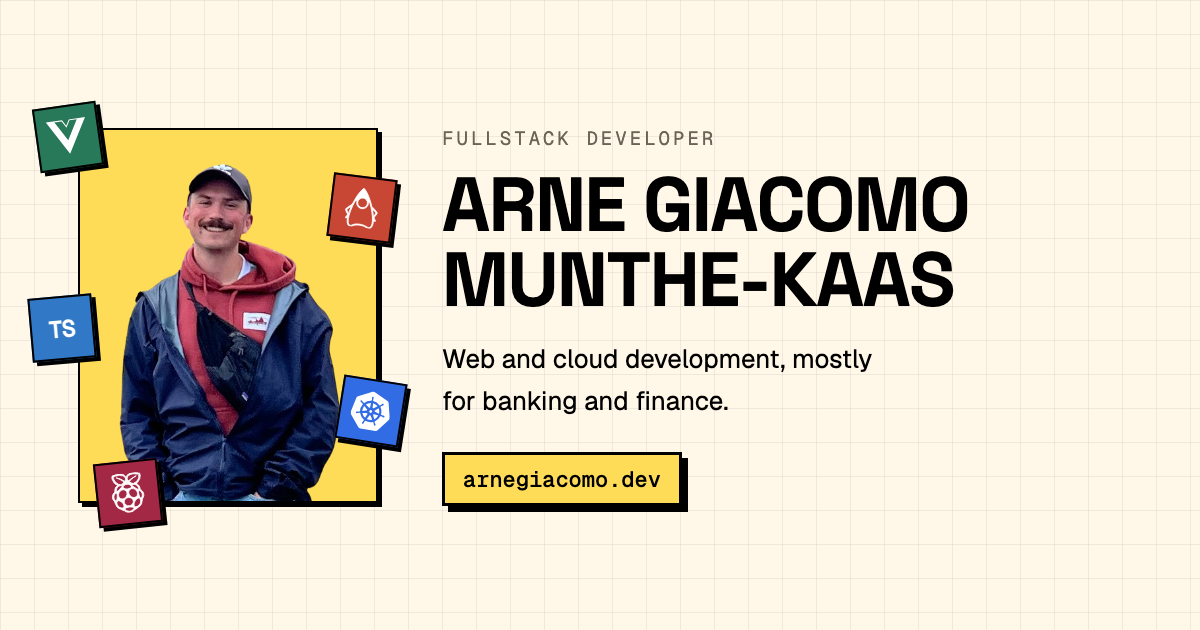
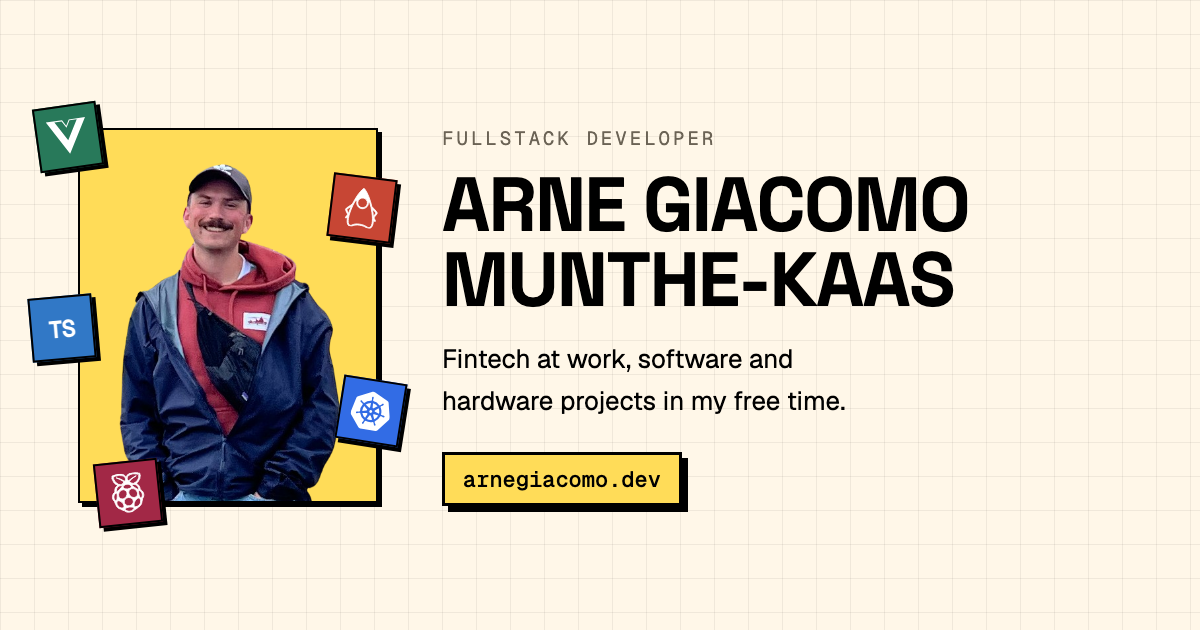
feat: rewrite site copy and restyle project cards

Changed region(s): [[0.37, 0.5429, 0.74, 0.6635]]

diff --git a/js/i18n.js b/js/i18n.js
@@ -1,67 +1,61 @@
 const TRANSLATIONS = {
   en: {
     'a11y.theme': 'Toggle dark mode',
-    'hero.eyebrow': 'Fullstack developer',
-    'hero.lead': 'Fullstack web and cloud development, mostly for banking and finance.',
+    'hero.lead': 'Fullstack developer in Bergen. Fintech at work, software and hardware projects in my free time.',
     'hero.badge1': 'Bergen, Norway',
-    'hero.badge2': 'Stacc',
-    'hero.badge3': 'Since 2023',
+    'hero.badge2': 'Stacc since 2023',
     'about.title': 'About',
-    'about.p1': 'Bergen-based fullstack developer at Stacc, working across backend, frontend, infrastructure and DevOps.',
-    'about.p2': 'Outside work: bass guitar, Lego, climbing, birding and hiking. Also small, physical projects - Raspberry Pis, e-ink displays, microcontrollers - and some dabbling with AI.',
+    'about.p1': 'I work at Stacc, a Nordic fintech company. Web development where the hard part is rarely the tech; it\'s the domain and the organisation around it.',
+    'about.p2': 'Outside work: Lego and bass guitar. I love being in nature - birding, climbing, hiking - and the garden is full of feeders and the birds they bring. I also build physical projects with Raspberry Pis, displays, microcontrollers and sensors.',
     'nf.title': '404',
     'nf.body': 'That page does not exist.',
     'nf.home': 'Back to the front page',
     'stack.title': 'Stack',
-    'projects.title': 'Projects',
+    'projects.title': 'Side projects',
     'projects.open': 'Open source',
     'projects.closed': 'Closed source',
-    'projects.fugleramme': 'E-ink bird frame for Raspberry Pi. Identifies birds by their song in real time and draws the recent visitors as a collage of public-domain illustrations.',
-    'projects.tablesummit': 'Multiplayer football prediction game. Predict the final table in a private or global league, scored live against real results.',
+    'projects.fugleramme': 'E-ink frame showing which birds have been in the garden. BirdNET-Go handles detection on a Raspberry Pi with a USB mic; fugleramme draws the results as public-domain illustrations. Full setup guide in the docs if you want to build your own.',
+    'projects.tablesummit': 'Predict how a football league finishes, then watch your score move as results come in. Compete with friends, family or strangers, in private leagues or globally. Live with the World Cup, Champions League, Premier League and more. Free to join.',
     'links.title': 'Get in touch',
     'links.email': 'Email'
   },
   no: {
-    'a11y.theme': 'Bytt mørk modus',
-    'hero.eyebrow': 'Fullstack-utvikler',
-    'hero.lead': 'Fullstack web- og systemutvikling for sky, hovedsakelig i bank- og finanssektoren.',
+    'a11y.theme': 'Veksle mørk modus',
+    'hero.lead': 'Fullstack-utvikler i Bergen. Fintech på jobb, software- og hardwareprosjekter på fritiden.',
     'hero.badge1': 'Bergen, Norge',
-    'hero.badge2': 'Stacc',
-    'hero.badge3': 'Siden 2023',
+    'hero.badge2': 'Stacc siden 2023',
     'about.title': 'Om meg',
-    'about.p1': 'Bergensbasert fullstack-utvikler hos Stacc, med erfaring på tvers av backend, frontend, infrastruktur og DevOps.',
-    'about.p2': 'Utenom jobb: bassgitar, Lego, klatring, fuglekikking og friluftsliv. I tillegg små, fysiske prosjekter - Raspberry Pi, e-ink-skjermer, mikrokontrollere - og litt eksperimentering med AI.',
+    'about.p1': 'Jeg jobber i Stacc, et nordisk fintech-selskap. Webutvikling der det vanskeligste sjelden er teknologien, men domenet og organisasjonen rundt.',
+    'about.p2': 'Utenom jobb: Lego og bassgitar. Jeg elsker å være ute i naturen - fuglekikking, klatring, turgåing - og hagen er full av matere og fuglene de trekker til seg. Jeg bygger også fysiske prosjekter med Raspberry Pi, skjermer, mikrokontrollere og sensorer.',
     'nf.title': '404',
     'nf.body': 'Denne siden finnes ikke.',
     'nf.home': 'Tilbake til forsiden',
     'stack.title': 'Teknologi',
-    'projects.title': 'Prosjekter',
+    'projects.title': 'Sideprosjekter',
     'projects.open': 'Åpen kildekode',
     'projects.closed': 'Lukket kildekode',
-    'projects.fugleramme': 'E-ink fugleramme for Raspberry Pi. Kjenner igjen fugler fra lyd i sanntid og tegner de siste besøkende som en collage av historiske illustrasjoner.',
-    'projects.tablesummit': 'Flerspillerspill der du tipper fotballtabeller. Tipp sluttabellen i en privat eller global liga, med poeng mot ekte resultater.',
+    'projects.fugleramme': 'E-ink-ramme som viser hvilke fugler som har vært i hagen. BirdNET-Go står for gjenkjenningen på en Raspberry Pi med USB-mikrofon; fuglerammen tegner resultatene som public domain-illustrasjoner. Full oppsettsguide i dokumentasjonen hvis du vil bygge din egen.',
+    'projects.tablesummit': 'Tipp hvordan en fotballiga ender, og se poengsummen bevege seg etter hvert som resultatene kommer inn. Konkurrer med venner, familie eller fremmede, i private ligaer eller globalt. Live med VM, CL, PL og mer. Gratis å bli med.',
     'links.title': 'Ta kontakt',
     'links.email': 'E-post'
   },
   it: {
-    'a11y.theme': 'Attiva modalità scura',
-    'hero.eyebrow': 'Sviluppatore fullstack',
-    'hero.lead': 'Sviluppo fullstack web e cloud, principalmente per il settore bancario e finanziario.',
+    'a11y.theme': 'Attiva/disattiva modalità scura',
+    'hero.lead': 'Sviluppatore fullstack a Bergen. Fintech al lavoro, progetti software e hardware nel tempo libero.',
     'hero.badge1': 'Bergen, Norvegia',
-    'hero.badge2': 'Stacc',
-    'hero.badge3': 'Dal 2023',
+    'hero.badge2': 'Stacc dal 2023',
     'about.title': 'Chi sono',
-    'about.p1': 'Sviluppatore fullstack con base a Bergen, in Stacc, dove lavoro su backend, frontend, infrastruttura e DevOps.',
-    'about.p2': 'Fuori dal lavoro: basso elettrico, Lego, arrampicata, birdwatching ed escursionismo. E poi progetti piccoli e fisici - Raspberry Pi, display e-ink, microcontrollori - e qualche esperimento con l\'AI.',
+    'about.p1': 'Lavoro in Stacc, una fintech nordica. Sviluppo web dove la parte difficile raramente è la tecnologia, ma il dominio e l\'organizzazione intorno.',
+    'about.p2': 'Fuori dal lavoro: Lego e basso elettrico. Adoro stare nella natura - birdwatching, arrampicata, escursionismo - e il giardino è pieno di mangiatoie e di uccelli. Costruisco anche progetti fisici con Raspberry Pi, display, microcontrollori e sensori.',
     'nf.title': '404',
     'nf.body': 'Questa pagina non esiste.',
     'nf.home': 'Torna alla pagina principale',
     'stack.title': 'Tecnologie',
-    'projects.title': 'Progetti',
+    'projects.title': 'Progetti personali',
     'projects.open': 'Codice aperto',
     'projects.closed': 'Codice chiuso',
-    'projects.fugleramme': 'Cornice e-ink per uccelli su Raspberry Pi. Riconosce gli uccelli dal canto in tempo reale e disegna i visitatori recenti come collage di illustrazioni storiche.',
-    'projects.tablesummit': 'Gioco multiplayer di pronostici calcistici. Pronostica la classifica finale in una lega privata o globale, con punteggi sui risultati reali.',
+    'projects.fugleramme': 'Cornice e-ink che mostra quali uccelli sono passati in giardino. BirdNET-Go si occupa del riconoscimento su un Raspberry Pi con microfono USB; fugleramme disegna i risultati come illustrazioni di pubblico dominio. Guida completa al montaggio nella documentazione, se vuoi costruirne una.',
+    'projects.tablesummit': 'Pronostica come finirà un campionato di calcio e guarda il tuo punteggio muoversi mano a mano che arrivano i risultati. Sfida amici, familiari o sconosciuti, in leghe private o a livello globale. Online con Mondiali, CL, PL e altro. L\'iscrizione è gratuita.',
     'links.title': 'Contattami',
     'links.email': 'Email'
   }

diff --git a/index.html b/index.html
@@ -5,15 +5,16 @@
 <meta name="viewport" content="width=device-width, initial-scale=1">
 <meta name="color-scheme" content="light dark">
 <title>Arne Giacomo Munthe-Kaas</title>
-<meta name="description" content="Bergen-based fullstack developer working on web and cloud systems, mostly in banking and finance.">
+<meta name="description" content="Fullstack developer in Bergen. Fintech at work, software and hardware projects in my free time.">
 <meta property="og:title" content="Arne Giacomo Munthe-Kaas">
-<meta property="og:description" content="Bergen-based fullstack developer working on web and cloud systems, mostly in banking and finance.">
+<meta property="og:description" content="Fullstack developer in Bergen. Fintech at work, software and hardware projects in my free time.">
 <meta property="og:type" content="website">
 <meta property="og:url" content="https://arnegiacomo.dev/">
 <!-- og.png is a screenshot of a throwaway page built from css/style.css, not a
      build artefact. It does not follow changes to the name, tagline or palette
-     on its own - rerun `python3 gen-images.py` after editing any of them. -->
-<meta property="og:image" content="https://arnegiacomo.dev/assets/og.png">
+     on its own - rerun `python3 gen-images.py` after editing any of them.
+     Scrapers cache by image URL, so bump ?v= whenever the card changes. -->
+<meta property="og:image" content="https://arnegiacomo.dev/assets/og.png?v=2">
 <meta property="og:image:width" content="1200">
 <meta property="og:image:height" content="630">
 <meta property="og:image:alt" content="Arne Giacomo Munthe-Kaas - fullstack developer, Bergen">
@@ -84,13 +85,11 @@
       <span class="chip block b-rpi   p5" role="img" aria-label="Raspberry Pi"><svg><use href="#i-rpi"/></svg></span>
     </div>
     <div class="hero-text">
-      <p class="eyebrow" data-i18n="hero.eyebrow"></p>
       <h1>Arne Giacomo<br>Munthe-Kaas</h1>
       <p class="lead" data-i18n="hero.lead"></p>
       <ul class="badges">
         <li class="block" data-i18n="hero.badge1"></li>
         <li class="block"><a href="https://www.stacc.com" data-i18n="hero.badge2"></a></li>
-        <li class="block" data-i18n="hero.badge3"></li>
       </ul>
     </div>
   </header>
@@ -105,10 +104,13 @@
 
   <section>
     <h2 data-i18n="stack.title"></h2>
+    <!-- Grouped languages, frameworks, data, infra, observability - reading order
+         carries the grouping, so keep new entries with their own kind. -->
     <ul class="tags">
-      <li class="block">Java</li><li class="block">Quarkus</li><li class="block">TypeScript</li>
-      <li class="block">Vue</li><li class="block">Python</li><li class="block">PostgreSQL</li>
-      <li class="block">Kubernetes</li><li class="block">Docker</li><li class="block">Linux</li>
+      <li class="block">Java</li><li class="block">TypeScript</li><li class="block">Python</li>
+      <li class="block">Quarkus</li><li class="block">Vue</li>
+      <li class="block">PostgreSQL</li>
+      <li class="block">Docker</li><li class="block">Kubernetes</li><li class="block">Linux</li>
       <li class="block">Azure</li><li class="block">Grafana</li>
     </ul>
   </section>
@@ -136,7 +138,7 @@
           </span>
         </div>
         <p data-i18n="projects.tablesummit"></p>
-        <span class="meta">TypeScript · Vue · Hono + Bun · PostgreSQL · Docker</span>
+        <span class="meta">Football · TypeScript · Vue · Hono + Bun · PostgreSQL · Docker</span>
       </a>
     </div>
   </section>

diff --git a/css/style.css b/css/style.css
@@ -387,6 +387,20 @@ a.card:active {
   opacity: 0.7;
 }
 
+/* Grid rows stretch, so the cards are already equal height - this pushes the
+   meta line to the floor of each one instead of letting it ride up under a
+   short description. Keeps the tag rows aligned across the row. */
+.project { display: flex; flex-direction: column; }
+
+/* The tag list is the longest line in the card and has to survive on one row -
+   two rows leave a ragged gap above the floored baseline. Tightened rather than
+   shortened: mono tracking and the spaces around each separator are the cheapest
+   width to buy back before the type gets too small to read. */
+.project .meta {
+  margin-top: auto;
+  letter-spacing: 0.01em;
+  word-spacing: -0.3em;
+}
 .project p { margin-bottom: 1rem; }
 
 .project-head {
@@ -398,20 +412,26 @@ a.card:active {
   margin-bottom: 0.75rem;
 }
 
-/* Source badge. Sits on the card's own accent colour, so it takes the neutral
-   card background rather than a palette colour of its own - the lock glyph and
-   the label carry the open/closed distinction. Kept shorter than the h3 line
-   box (border and shadow included) so the title, not the badge, sets the
-   header row height and the card keeps its vertical rhythm. */
+/* Source badge. Outlined, not filled. A filled box on top of the card's filled
+   accent reads as a patch of surface no matter which colour it takes - and
+   making it darker to fix that just puts metadata in competition with the
+   project title, which is the wrong hierarchy. Letting the accent show through
+   an outline keeps it legible without promoting it.
+
+   Black in both themes rather than following --ink: the card underneath keeps
+   its accent colour in dark mode, so a themed value would flip light there and
+   lose the outline against it.
+
+   No box at all - no fill, no border, no shadow. Every other bordered element
+   on the page is a surface or a control; this is neither, and the lock glyph
+   already carries the open/closed distinction on its own. Dropping the chrome
+   also drops the padding, which lets the label sit flush with the card's own
+   padding edge instead of floating a few pixels inside it. */
 .src {
   display: inline-flex;
   align-items: center;
   gap: 0.35rem;
-  padding: 0.2rem 0.45rem;
-  background: var(--card);
-  color: var(--ink);
-  border: var(--border) solid var(--line);
-  box-shadow: 2px 2px 0 0 var(--shadow-color);
+  color: #000000;
   font: 500 0.62rem/1 var(--mono);
   text-transform: uppercase;
   letter-spacing: 0.1em;
@@ -427,9 +447,6 @@ a.card:active {
   stroke-linecap: round;
 }
 
-/* Filled lock body for open, hollow for closed, so the two read apart at a
-   glance even before the label. */
-.src-open svg rect { fill: currentColor; }
 .link strong { font-size: 1.1rem; display: block; margin-top: 0.35rem; word-break: break-word; }
 
 .notfound { margin-top: 3rem; }

diff --git a/gen-images.py b/gen-images.py
@@ -43,7 +43,7 @@ body{margin:0;width:1200px;height:630px;overflow:hidden;display:flex;align-items
 """,
     body='<div class="txt"><p class="eyebrow">FULLSTACK DEVELOPER</p>'
          '<h1>Arne Giacomo<br>Munthe-Kaas</h1>'
-         '<p class="lead">Web and cloud development, mostly for banking and finance.</p>'
+         '<p class="lead">Fintech at work, software and hardware projects in my free time.</p>'
          '<span class="url">arnegiacomo.dev</span></div>',
 )
 
@@ -75,8 +75,8 @@ body{margin:0;width:1400px;height:480px;overflow:hidden;display:flex;align-items
 MONO = """
 <style>
  html,body{margin:0;padding:0;width:SIZEpx;height:SIZEpx;overflow:hidden;
-           background:#ffdc58;background-image:none}
- .m{width:SIZEpx;height:SIZEpx;background:#ffdc58;color:#000;display:grid;
+           background:var(--primary);background-image:none}
+ .m{width:SIZEpx;height:SIZEpx;background:var(--primary);color:var(--on-accent);display:grid;
     place-content:center;font-family:var(--head);font-weight:800;
     font-size:FSpx;line-height:LH;letter-spacing:-.04em;text-align:center}
  span{display:block}
